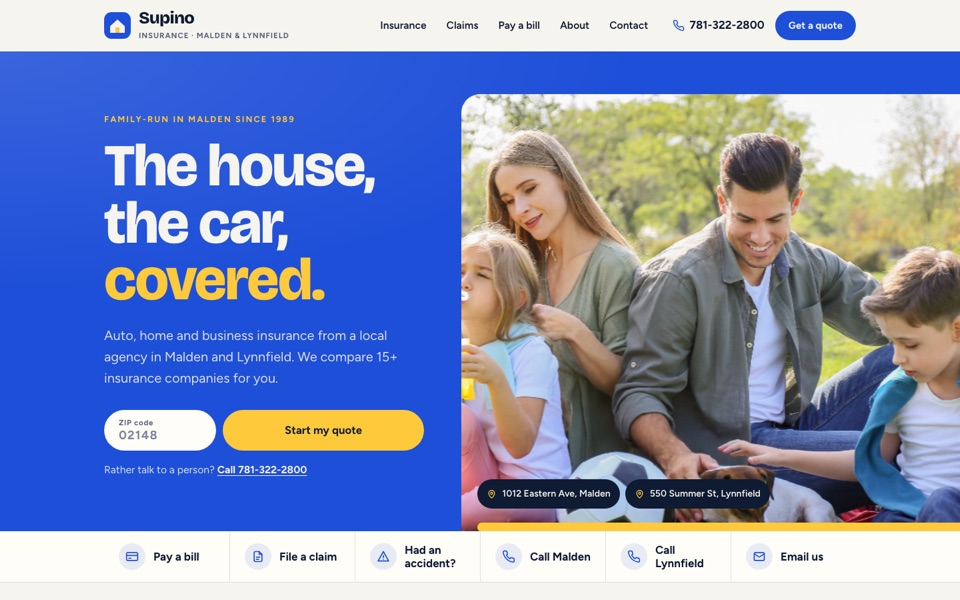
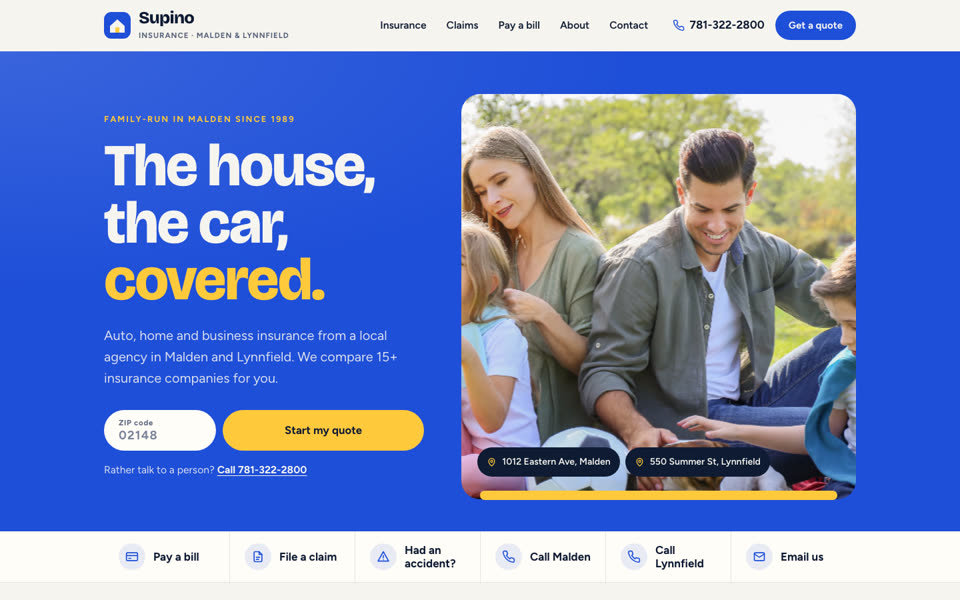
previews 2026-10-08 01:11

diff --git a/supino-insurance/index.html b/supino-insurance/index.html
@@ -511,6 +511,14 @@ html.qf-open{overflow:hidden}
 @media (max-width:760px){
   .hero-frame{max-height:56svh}
 }
+
+/* Photo centered at every width: equal space both sides, all corners rounded */
+.hero-media{margin:clamp(40px,5vw,64px) max(var(--gutter),calc((100vw - var(--max)) / 2 + var(--gutter))) clamp(32px,4vw,48px) 0}
+.hero-frame{border-radius:28px}
+.hero-bar{left:28px;right:28px;border-radius:999px}
+.hero-photo{object-position:50% 45%}
+@media (max-width:900px){.hero-media{margin:0 var(--gutter) 36px}}
+@media (max-width:760px){.hero-media{margin:0 var(--gutter) 28px}.hero-frame{border-radius:22px}.hero-bar{left:18px;right:18px}}
 </style>
 </head>
 <body>
